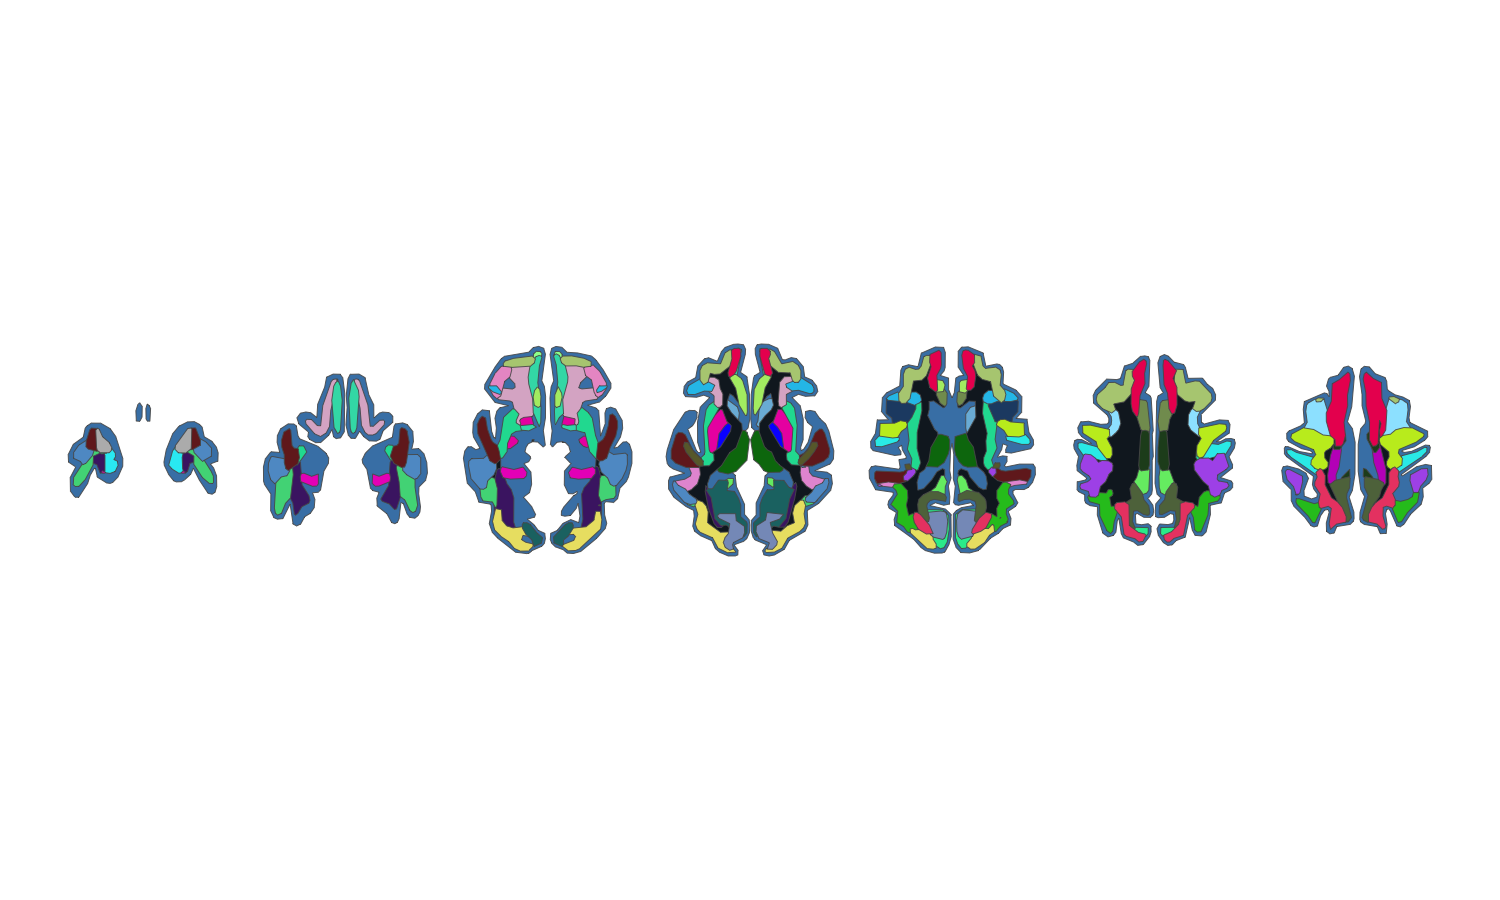
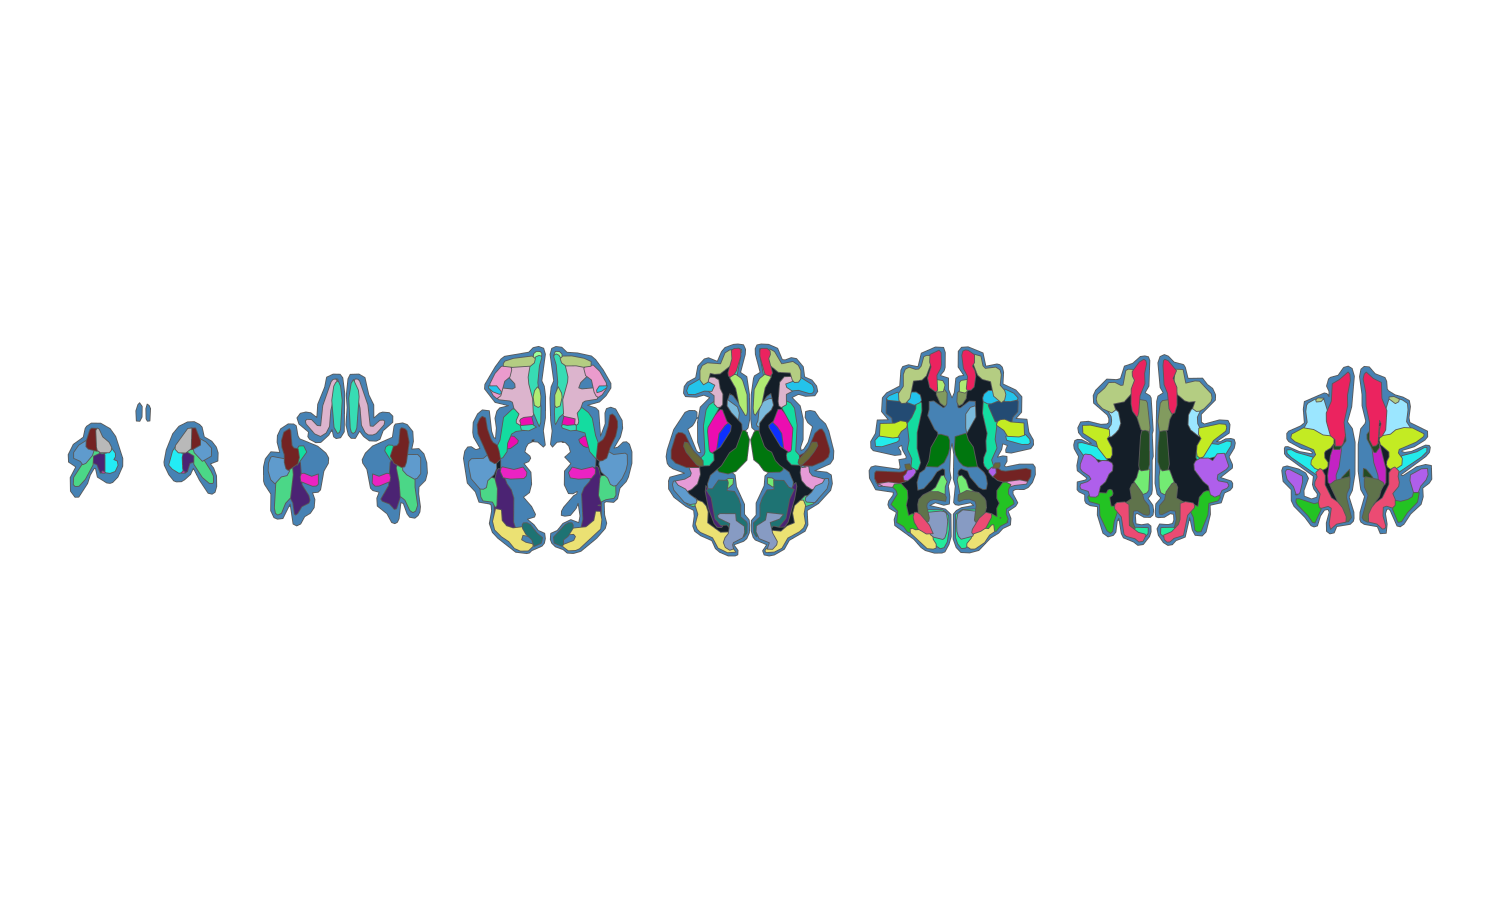
Deploying to gh-pages from @ gbarisano/ggsegDKwm@468d91e7046c43adc5a25a5fb83ccb59c40edd16 🚀

diff --git a/authors.html b/authors.html
@@ -41,7 +41,7 @@
       <h2>Authors</h2>
 
       <ul class="list-unstyled"><li>
-          <p><strong>Giuseppe Barisano</strong>. Author, maintainer.
+          <p><strong>Giuseppe Barisano</strong>. Author, maintainer. <a href="https://orcid.org/0000-0001-5598-1369" target="orcid.widget" aria-label="ORCID" class="external-link"><span class="fab fa-orcid orcid" aria-hidden="true"></span></a>
           </p>
         </li>
       </ul></div>

diff --git a/index.html b/index.html
@@ -150,7 +150,7 @@
 <div class="developers">
 <h2 data-toc-skip>Developers</h2>
 <ul class="list-unstyled">
-<li>Giuseppe Barisano <br><small class="roles"> Author, maintainer </small>   </li>
+<li>Giuseppe Barisano <br><small class="roles"> Author, maintainer </small> <a href="https://orcid.org/0000-0001-5598-1369" target="orcid.widget" aria-label="ORCID" class="external-link"><span class="fab fa-orcid orcid" aria-hidden="true"></span></a>  </li>
 </ul>
 </div>
 

diff --git a/authors.md b/authors.md
@@ -3,6 +3,7 @@
 ## Authors
 
 - **Giuseppe Barisano**. Author, maintainer.
+  [](https://orcid.org/0000-0001-5598-1369)
 
 ## Citation
 